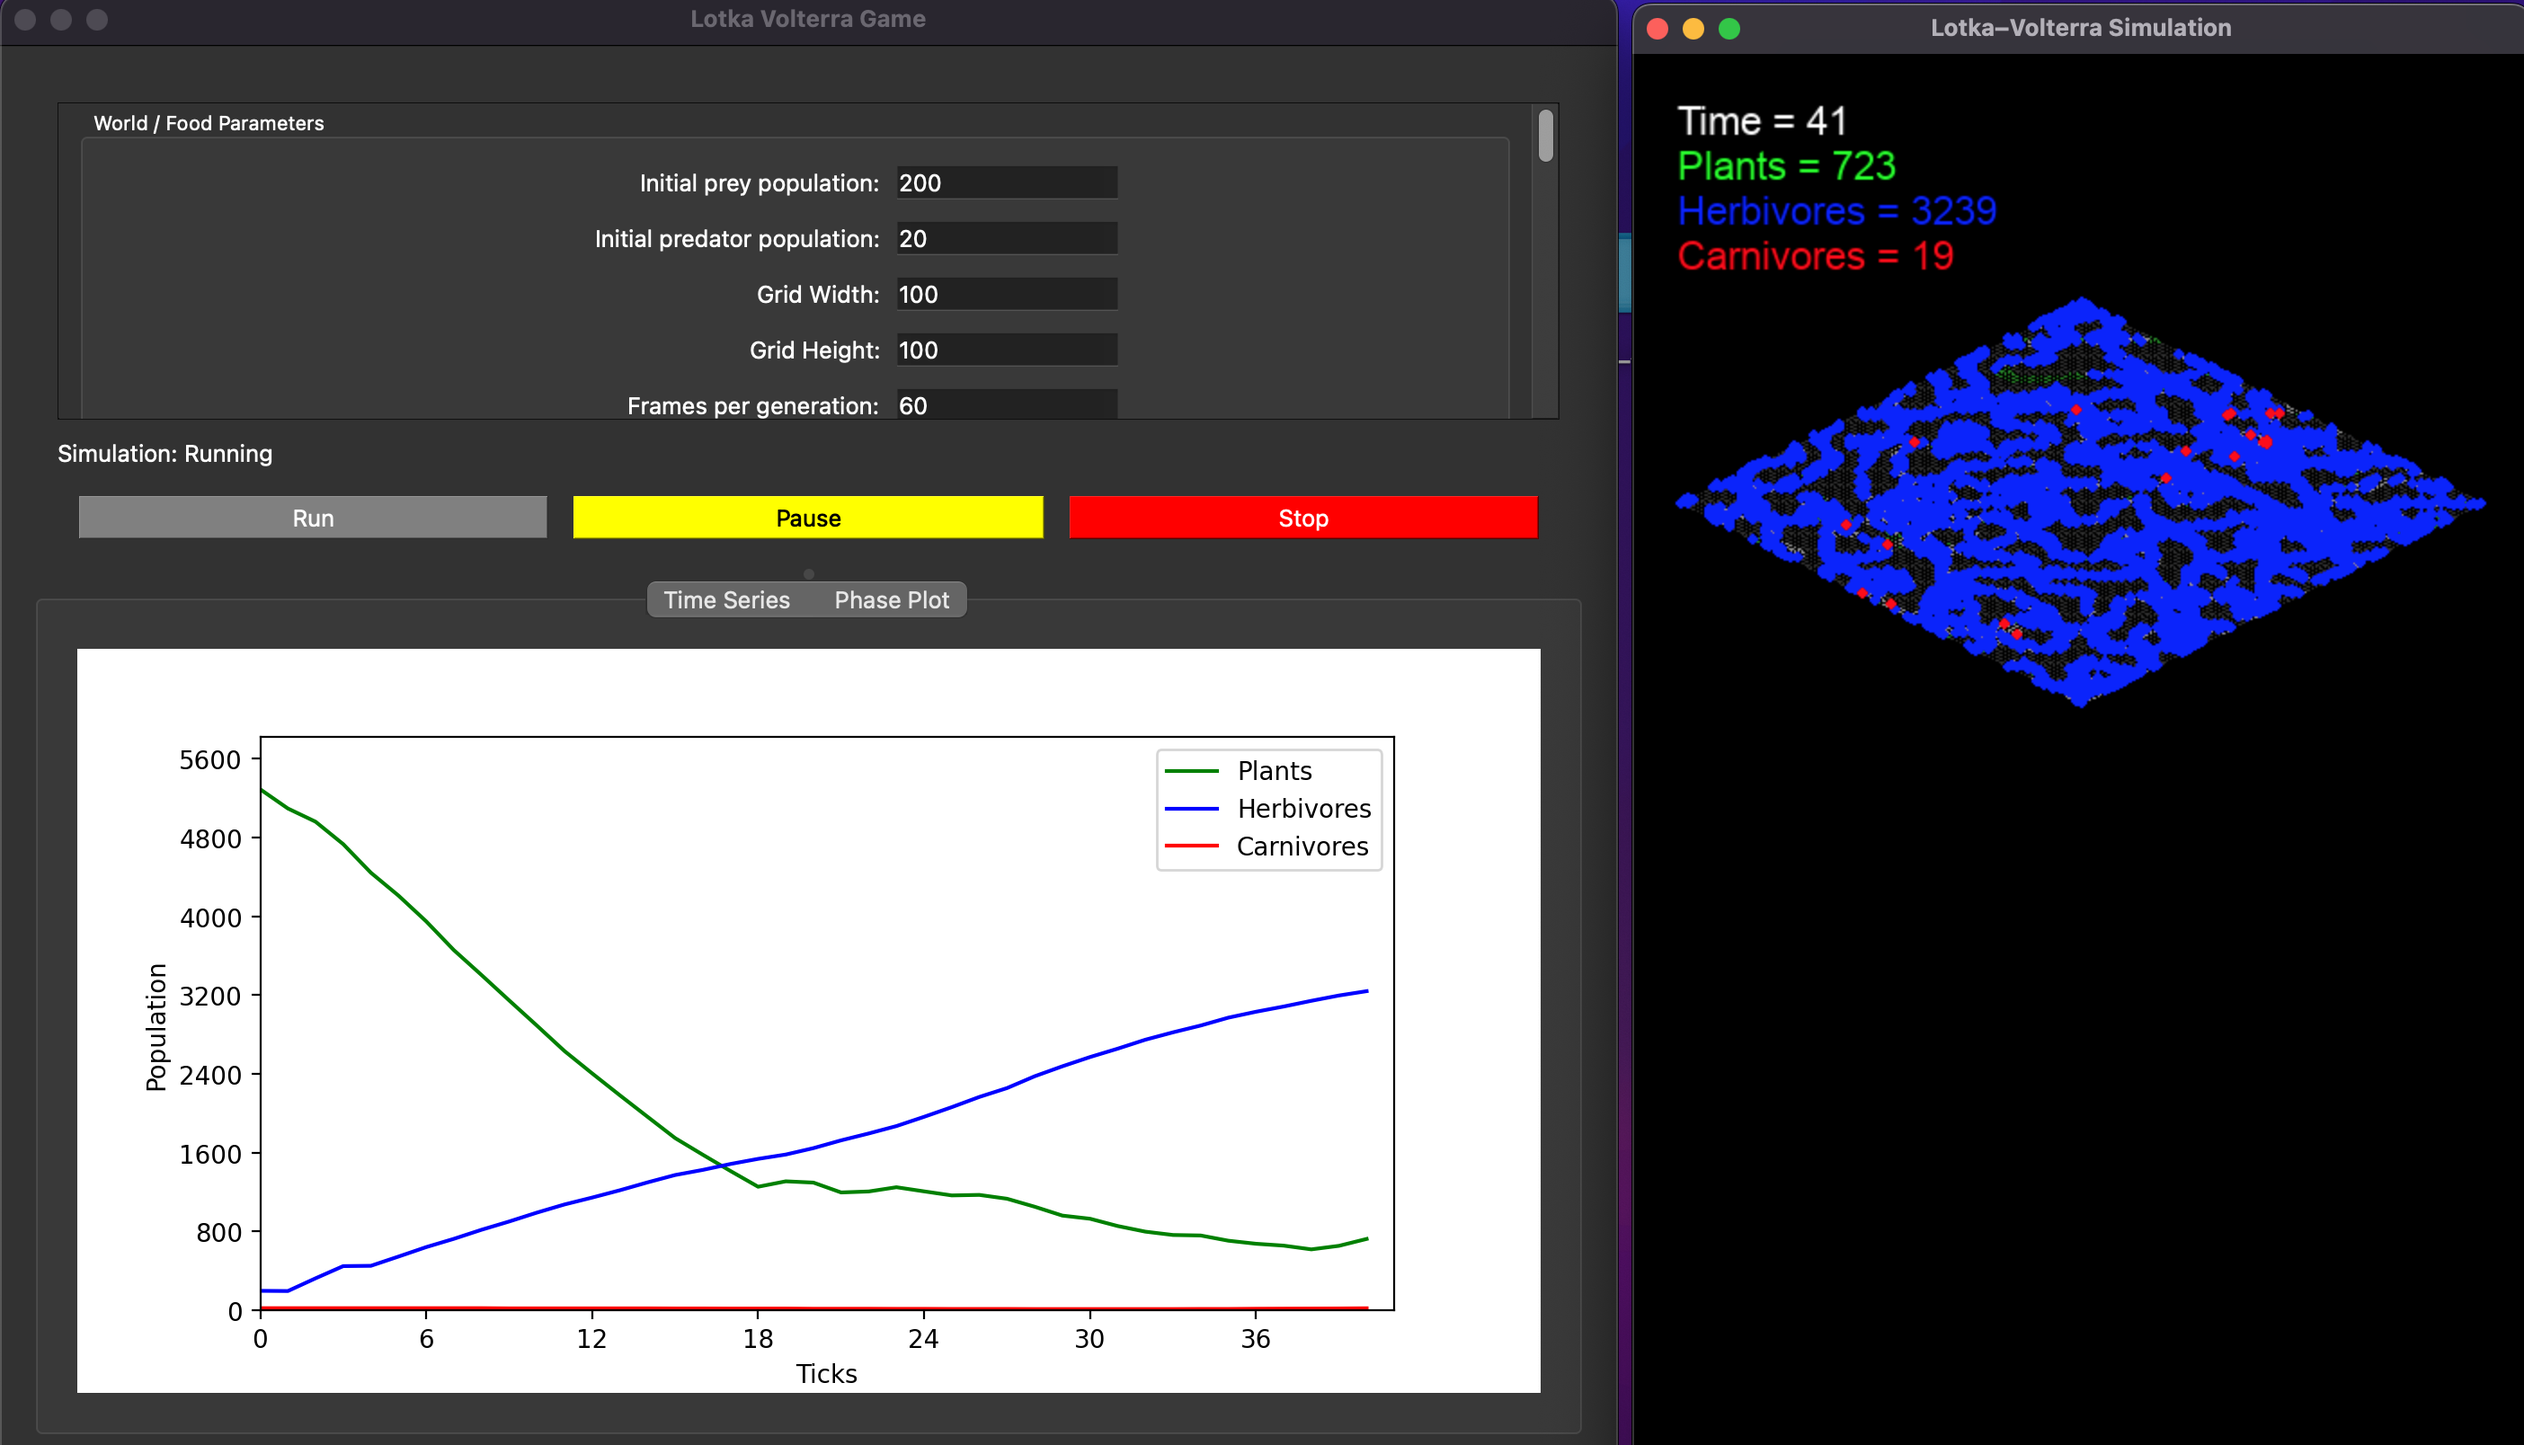
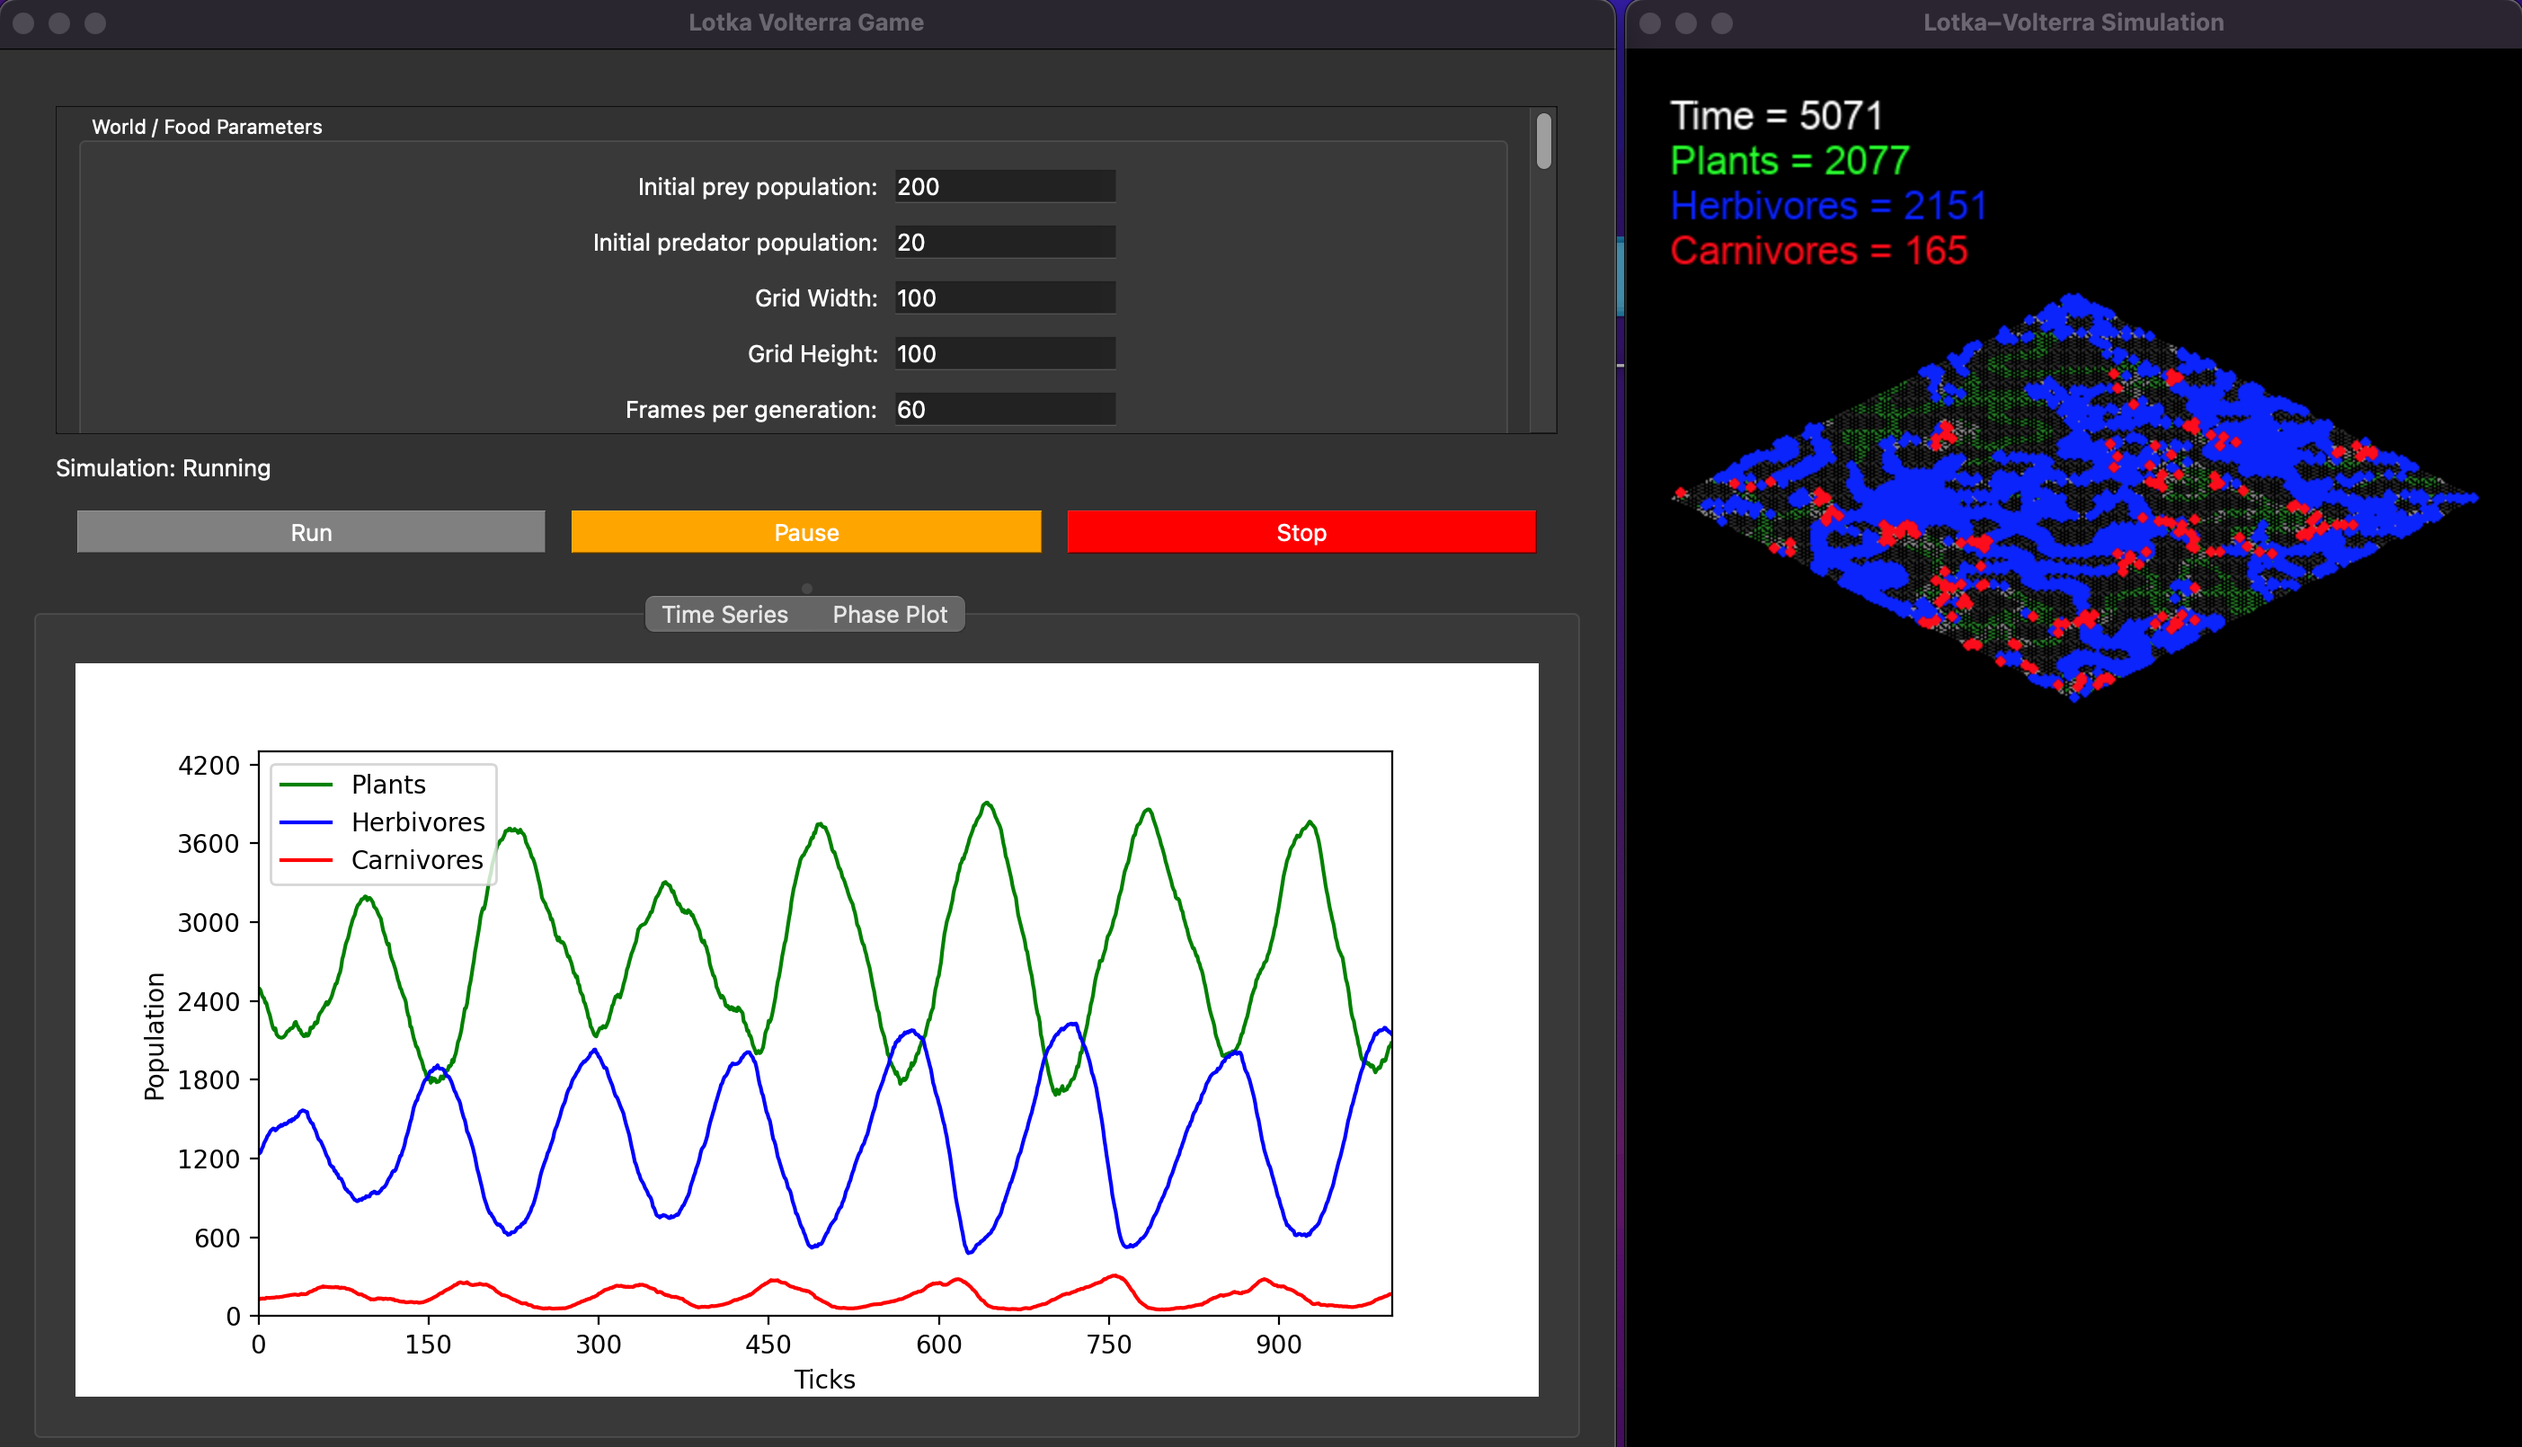
update screenshots + add hawk game placeholder functions

diff --git a/mvc/hawk_dove/hawk_dove_view.py b/mvc/hawk_dove/hawk_dove_view.py
@@ -1,27 +1,111 @@
-from PySide6.QtWidgets import QWidget, QVBoxLayout, QLabel, QPushButton
+from PySide6.QtWidgets import (
+    QWidget, QVBoxLayout, QHBoxLayout, QLabel, QPushButton,
+    QLineEdit, QFormLayout, QTabWidget, QScrollArea, QGroupBox,
+    QSplitter, QMessageBox
+)
+from PySide6.QtCore import Qt, QTimer
+import multiprocessing
+from games.hawk_dove.world import World
+import pygame as pg
+from games.hawk_dove.game import Game as LVGame
+from games.hawk_dove.settings import GRID_X, GRID_Y, SIM_WINDOW_HEIGHT, SIM_WINDOW_WIDTH
+from settings import APP_WINDOW_WIDTH, APP_WINDOW_HEIGHT
+import pygame as pg
+from time import perf_counter
+
+
+TIMER_AMNT = 1
 
 class HawkDoveWindow(QWidget):
     def __init__(self, start_page):
         super().__init__()
         self.start_page = start_page
         self.setWindowTitle("Hawk-Dove Window")
-        self.resize(400, 300)
+        self.resize(APP_WINDOW_WIDTH, APP_WINDOW_HEIGHT)
 
-        layout = QVBoxLayout(self)
+        self.sim_timer = None
+        self.sim_game = None
+        self.sim_running = False
+        self.sim_paused = False
+        self.last_update_time = perf_counter()
+
+        main_layout = QVBoxLayout(self)
 
         self.label = QLabel("Welcome to the Hawk-Dove Simulation")
-        layout.addWidget(self.label)
+        main_layout.addWidget(self.label)
+
+        scroll = QScrollArea()
+        scroll.setWidgetResizable(True)
+        scroll_content = QWidget()
+        scroll_layout = QVBoxLayout(scroll_content)
+
+        self.sim_status_label = QLabel("Simulation: Not running")
+
+        self.time_step = QLineEdit("0.1")
+        self.grid_x = QLineEdit("100")
+        self.grid_y = QLineEdit("100")
 
         self.back_button = QPushButton("Back")
         self.back_button.clicked.connect(self.go_back)
-        layout.addWidget(self.back_button)
+        main_layout.addWidget(self.back_button)
 
         self.close_button = QPushButton("Close")
-        self.close_button.clicked.connect(self.close)
-        layout.addWidget(self.close_button)
-
-
+        self.close_button.clicked.connect(self.close_app)
+        main_layout.addWidget(self.close_button)
 
     def go_back(self):
         self.hide()
         self.start_page.show()
+
+    def run_simulation(self):
+        # Placeholder for simulation logic
+        self.label.setText("Running Hawk-Dove Simulation...")
+
+    def validate_params(self):
+        # Placeholder for parameter validation logic
+        return True
+
+    def update_plots(self):
+        # Placeholder for plot updating logic
+        pass
+
+    def step_simulation(self):
+        # Placeholder for stepping through the simulation
+        pass
+
+    def toggle_pause(self):
+        # Placeholder for toggling pause state
+        pass
+
+    def stop_simulation(self):
+        # Placeholder for stopping the simulation
+        pass
+
+    def close_app(self):
+        if self.sim_running:
+            self.stop_simulation()
+            self.close()
+        else:
+            self.close()
+
+    def update_button_colors(self):
+        # Run button
+        if self.sim_running:
+            self.run_button.setStyleSheet("background-color: gray; color: white;")
+        else:
+            self.run_button.setStyleSheet("background-color: green; color: white;")
+
+        # Pause button
+        if self.sim_paused:
+            self.pause_button.setStyleSheet("background-color: orange; color: white;")
+        elif self.sim_running:
+            self.pause_button.setStyleSheet("background-color: yellow; color: black;")
+        else:
+            self.pause_button.setStyleSheet("background-color: gray; color: white;")
+
+        # Stop button
+        if self.sim_running:
+            self.stop_button.setStyleSheet("background-color: red; color: white;")
+        else:
+            self.stop_button.setStyleSheet("background-color: gray; color: white;")
+

diff --git a/mvc/lotka_volterra/lotka_volterra_view.py b/mvc/lotka_volterra/lotka_volterra_view.py
@@ -469,6 +469,8 @@ class LotkaVolterraWindow(QWidget):
         if self.sim_running:
             self.stop_simulation()
             self.close()
+        else:
+            self.close()
 
     # def show_error_dialog(self, message):
     #     msg_box = QMessageBox(self)

diff --git a/games/lotka_volterra/readme.md b/games/lotka_volterra/readme.md
@@ -9,7 +9,11 @@
 
 ## Phase Portrait:
 
+![Phase Portrait Plot](docs/phase_portrait.png)
+
 ## Time-Series Plot:
+
+![Time Series Plot](docs/time_series.png)
 
 ## The Rules:
 - Plant tiles produce food (energy).
